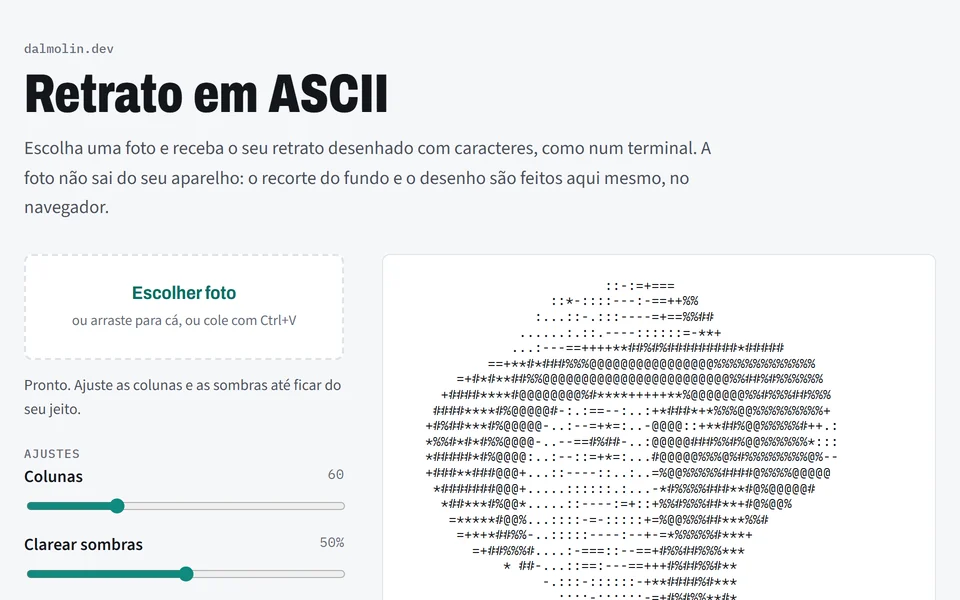
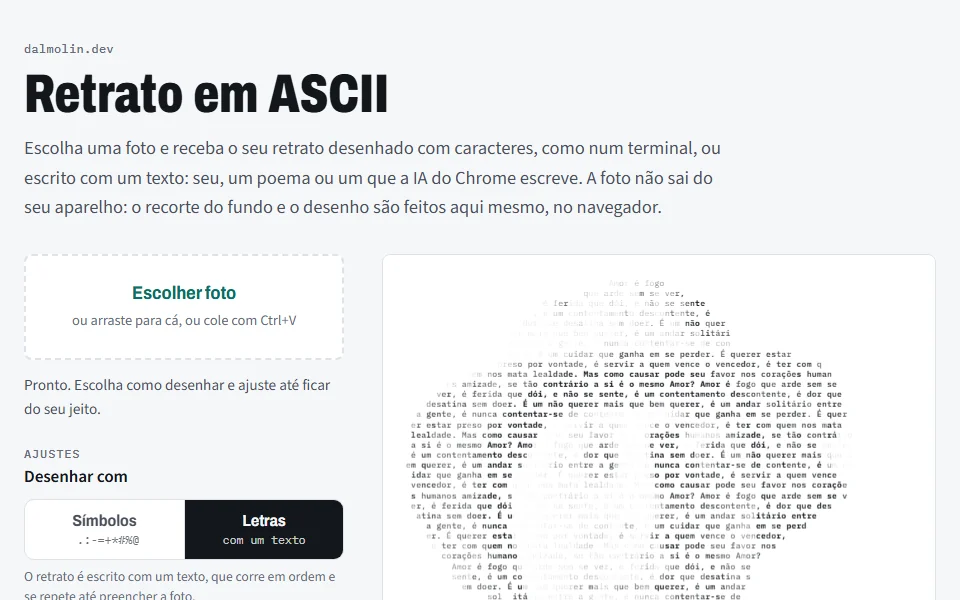
Retrato em ASCII: resumo e print com o desenho escrito com texto
O projeto ganhou o modo Letras, com o texto colado, um pronto em domínio público ou escrito por
uma IA que roda no computador. O resumo passa a dizer isso, e o print, claro e escuro, mostra o
retrato escrito com o soneto de Camões. A data continua a da publicação (9/11).

diff --git a/src/content/projetos/retrato-ascii.md b/src/content/projetos/retrato-ascii.md
@@ -1,6 +1,6 @@
 ---
 titulo: "Retrato em ASCII"
-resumo: "Sua foto vira um retrato desenhado com caracteres, como num terminal. O recorte do fundo roda no navegador: a foto não sai do aparelho."
+resumo: "Sua foto vira um retrato desenhado com caracteres ou escrito com um texto: seu, um poema ou um que a IA escreve no seu computador. A foto não sai do aparelho."
 tema: Ferramentas
 data: 2026-11-09
 url: https://dalmolin.dev/retrato-ascii/
